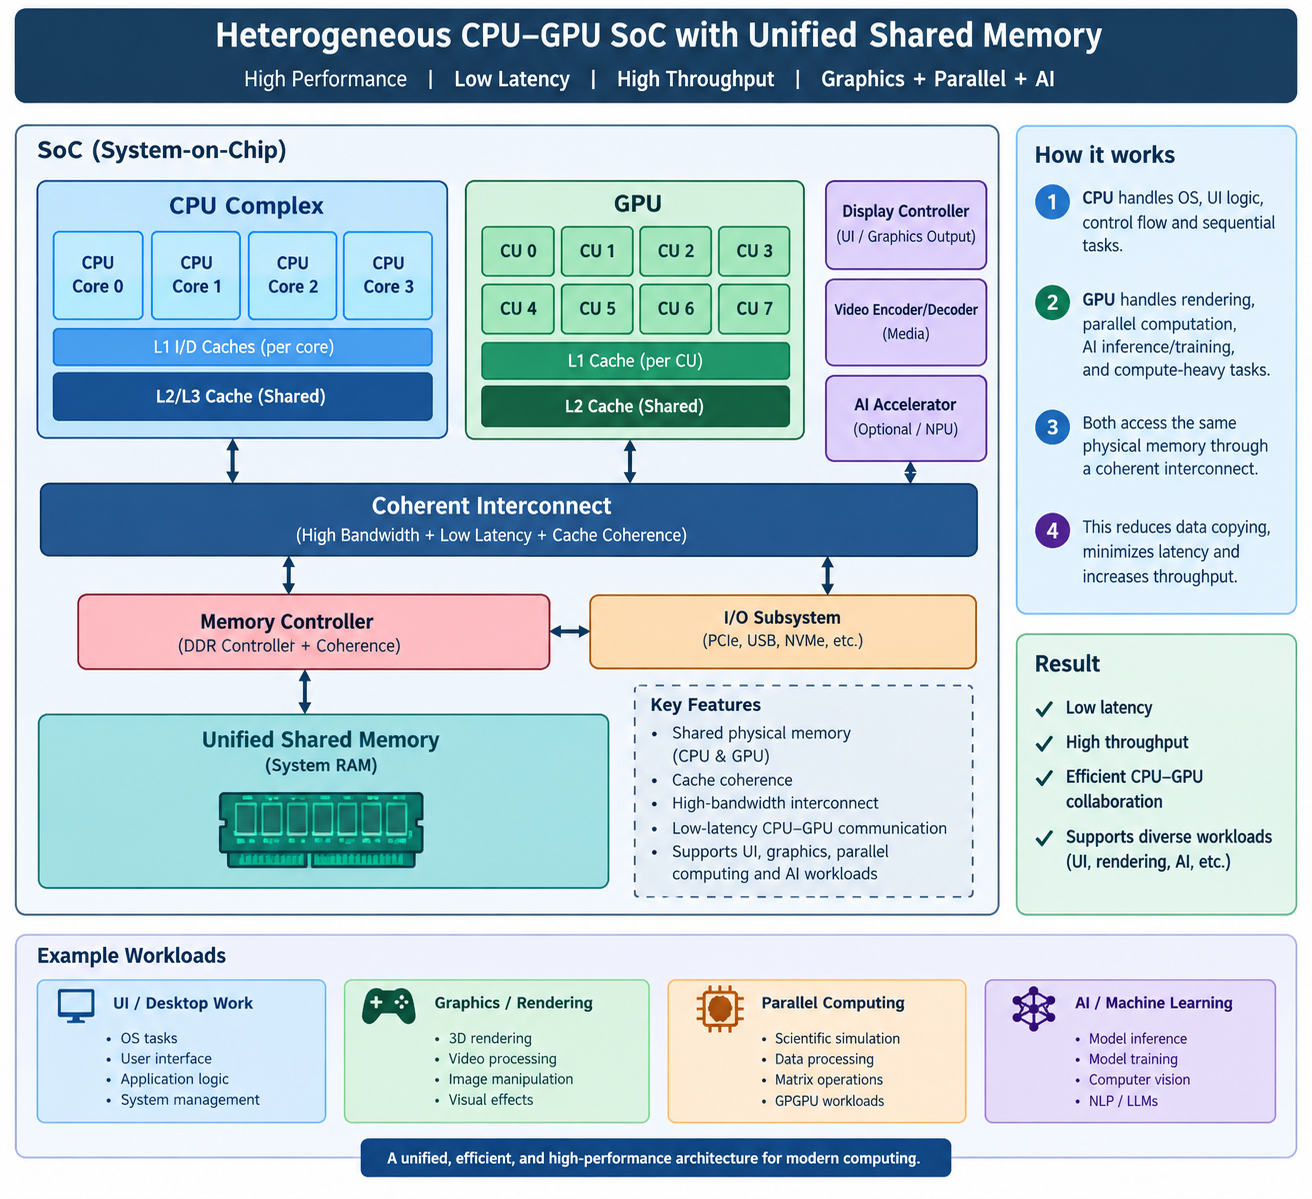
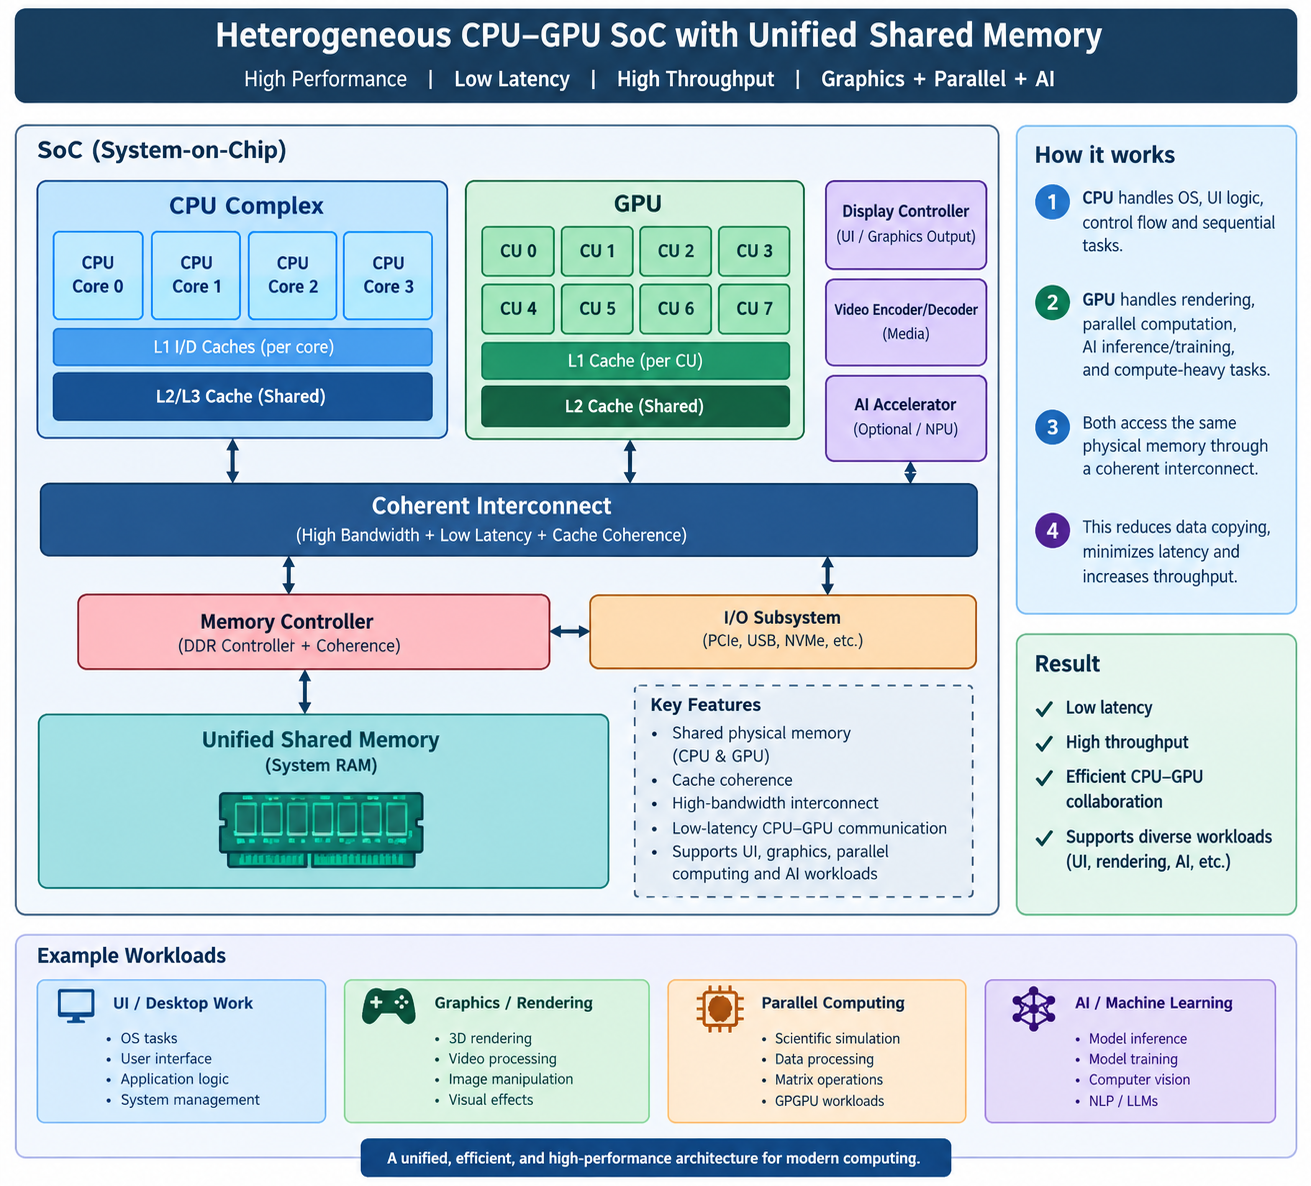
alignment fix

Changed region(s): [[0.0, 0.0, 1.0, 0.9983], [0.4272, 0.0, 0.4577, 0.0312], [0.3661, 0.0, 0.3966, 0.0312]]

diff --git a/pages/projects/phase2/asic_pd.html b/pages/projects/phase2/asic_pd.html
@@ -146,7 +146,7 @@
                     <img src="../../../assest/cpu_gpu_memory/architecture.png" alt="VLSI Design Banner">
                 </div>
             </section>
-            <p style="text-align: justify; margin-bottom: 20px;">
+            <p style="text-align: justify; margin-bottom: 20px; margin-top: -10px;">
                 <strong>Figure 1.1:</strong>
                 Graphical representation of the proposed architecture. | Note: This image is AI-generated, which saved
                 my time compared to creating it manually.
